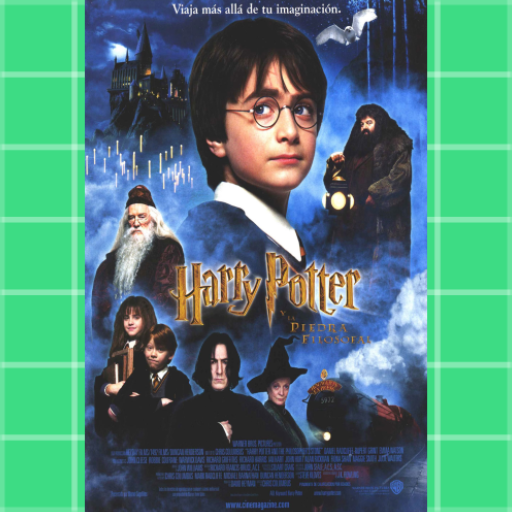
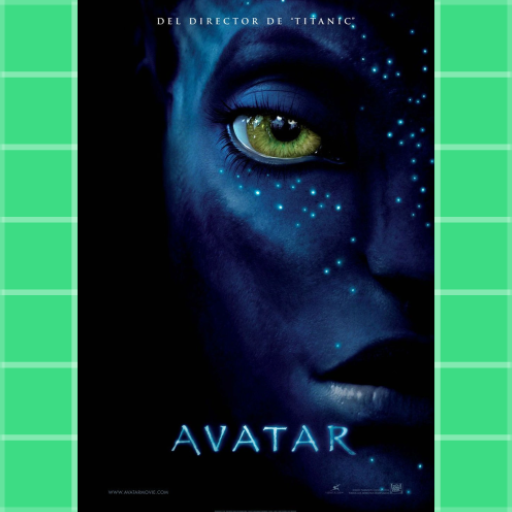
UI changes and dinamic picture assigning

diff --git a/app/src/main/java/com/tpintegrador/kinoapp/MainActivity.java b/app/src/main/java/com/tpintegrador/kinoapp/MainActivity.java
@@ -19,9 +19,18 @@ public class MainActivity extends AppCompatActivity {
     @Override
     protected void onCreate(Bundle savedInstanceState) {
         super.onCreate(savedInstanceState);
-        peliculas.add(new Pelicula(1, "Avengers", "2012", 1));
-        peliculas.add(new Pelicula(1, "Avatar", "2009", 2));
-        peliculas.add(new Pelicula(1, "Harry Potter", "2001", 3));
+        peliculas.add(new Pelicula(1, "Avengers", "2012", R.mipmap.avengers));
+        peliculas.add(new Pelicula(1, "Avatar", "2009", R.mipmap.avatar_foreground));
+        peliculas.add(new Pelicula(1, "Harry Potter", "2001", R.mipmap.harry_foreground));
+        peliculas.add(new Pelicula(1, "Avengers", "2012", R.mipmap.avengers));
+        peliculas.add(new Pelicula(1, "Avatar", "2009", R.mipmap.avatar_foreground));
+        peliculas.add(new Pelicula(1, "Harry Potter", "2001", R.mipmap.harry_foreground));
+        peliculas.add(new Pelicula(1, "Avengers", "2012", R.mipmap.avengers));
+        peliculas.add(new Pelicula(1, "Avatar", "2009", R.mipmap.avatar_foreground));
+        peliculas.add(new Pelicula(1, "Alicia en el pais de las maravillas", "2001", R.mipmap.harry_foreground));
+        peliculas.add(new Pelicula(1, "Avengers", "2012", R.mipmap.avengers));
+        peliculas.add(new Pelicula(1, "Avatar", "2009", R.mipmap.avatar_foreground));
+        peliculas.add(new Pelicula(1, "Harry Potter", "2001", R.mipmap.harry_foreground));
         mBinding = ActivityMainBinding.inflate(getLayoutInflater());
         setContentView(mBinding.getRoot());
         System.out.println(peliculas.size() + " peliculas");

diff --git a/app/src/main/java/com/tpintegrador/kinoapp/PeliculasRecyclerAdapter.java b/app/src/main/java/com/tpintegrador/kinoapp/PeliculasRecyclerAdapter.java
@@ -1,9 +1,11 @@
 package com.tpintegrador.kinoapp;
 
+import android.graphics.drawable.Drawable;
 import android.view.LayoutInflater;
 import android.view.View;
 import android.view.ViewGroup;
 import android.widget.Button;
+import android.widget.ImageView;
 import android.widget.TextView;
 
 import androidx.annotation.NonNull;
@@ -25,6 +27,7 @@ public class PeliculasRecyclerAdapter extends RecyclerView.Adapter<PeliculasRecy
         TextView anio;
         Button foro;
         Button reserva;
+        ImageView imagen;
 
         public PeliculaViewHolder(PeliculaItemBinding binding) {
             super(binding.getRoot());
@@ -33,10 +36,12 @@ public class PeliculasRecyclerAdapter extends RecyclerView.Adapter<PeliculasRecy
             anio = mBinding.anio;
             foro = mBinding.botonForo;
             reserva = mBinding.botonReserva;
+            imagen = mBinding.IconoPelicula;
         }
         public void bind(Pelicula pelicula){
             titulo.setText(pelicula.getNombre());
             anio.setText(pelicula.getAño());
+            imagen.setImageResource(pelicula.getImagen());
             //mBinding.IconoPelicula.setId(pelicula.getImagen());
          /*   foro.setOnClickListener(new View.OnClickListener() {
                 @Override

diff --git a/app/src/main/java/com/tpintegrador/kinoapp/model/Pelicula.java b/app/src/main/java/com/tpintegrador/kinoapp/model/Pelicula.java
@@ -4,15 +4,15 @@ public class Pelicula {
     Integer id;
     String nombre;
     String año;
-    Integer imagen;
+    int imagen;
 
     public Pelicula(){}
 
-    public Pelicula(Integer id, String nombre, String año, Integer imagen) {
+    public Pelicula(Integer id, String nombre, String año, int imagen) {
         this.id = id;
         this.nombre = nombre;
         this.año = año;
-       //this.imagen = imagen;
+        this.imagen = imagen;
     }
 
     public Integer getId() {
@@ -39,11 +39,11 @@ public class Pelicula {
         this.año = año;
     }
 
-    /*public Integer getImagen() {
+    public int getImagen() {
         return imagen;
     }
 
-    public void setImagen(Integer imagen) {
+    public void setImagen(int imagen) {
         this.imagen = imagen;
-    }*/
+    }
 }
